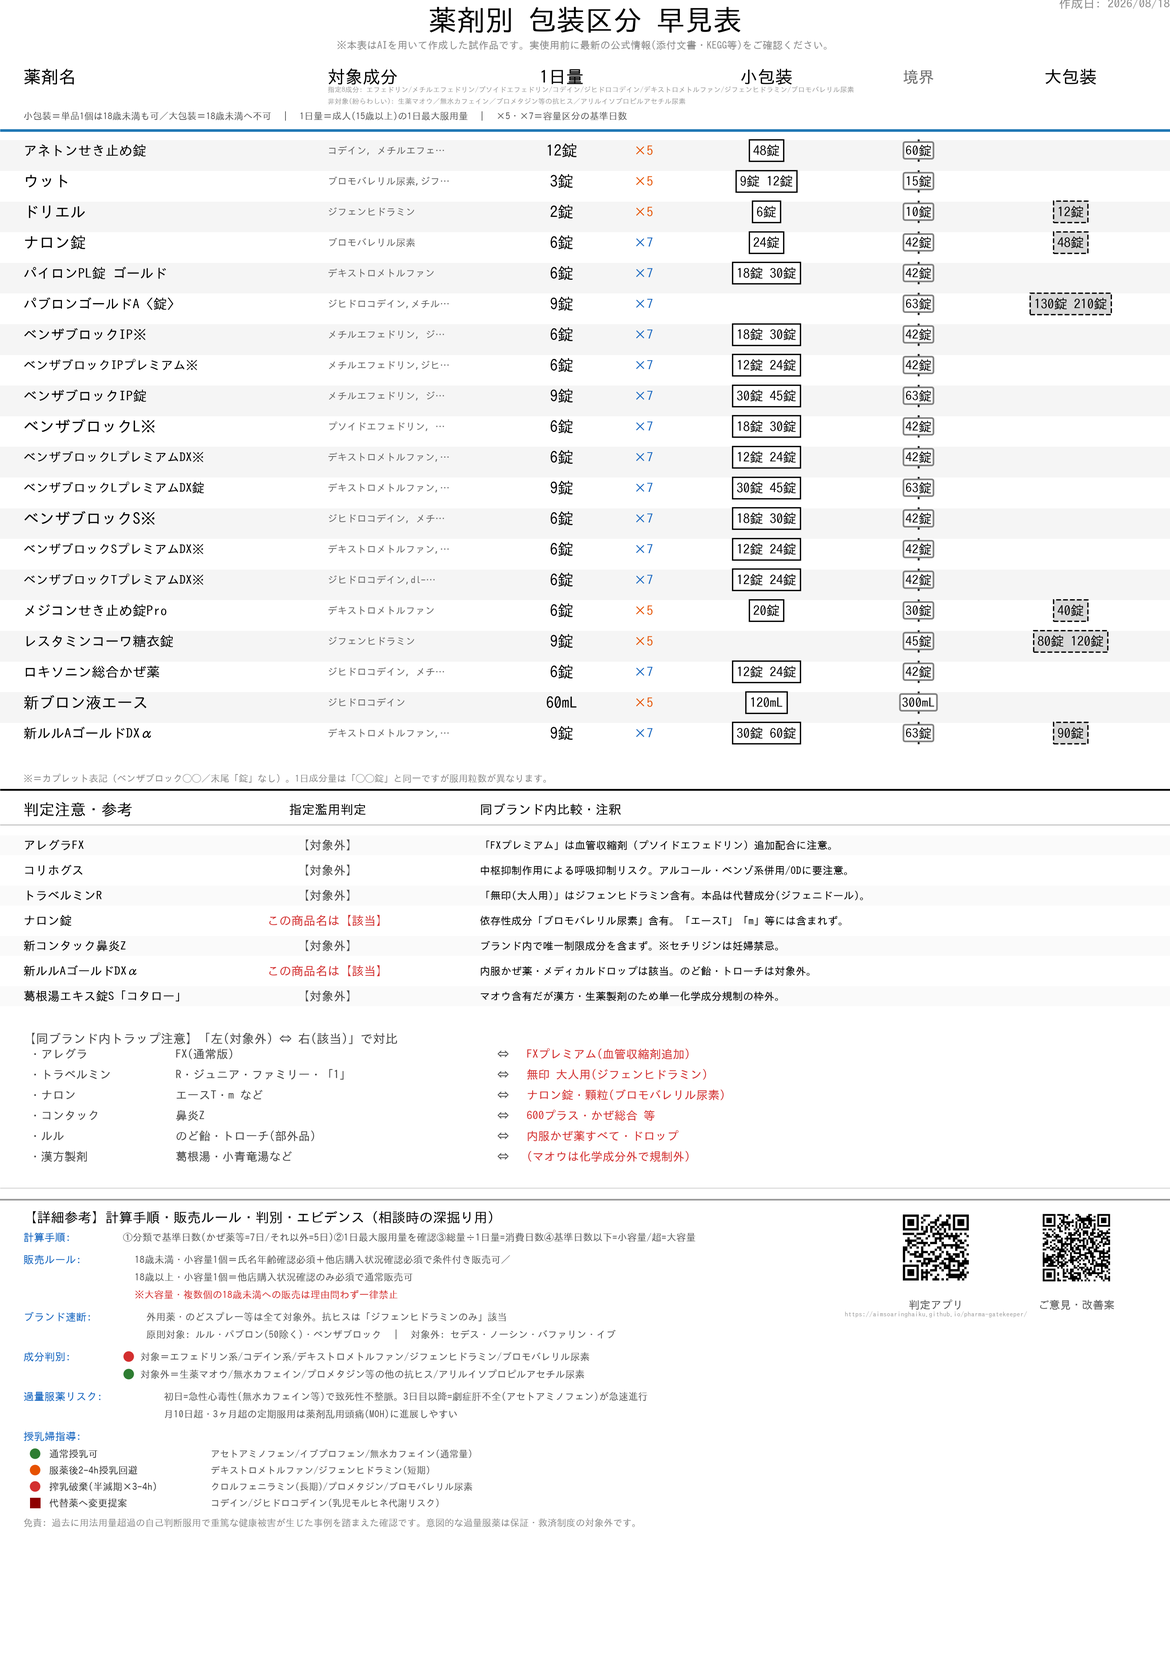
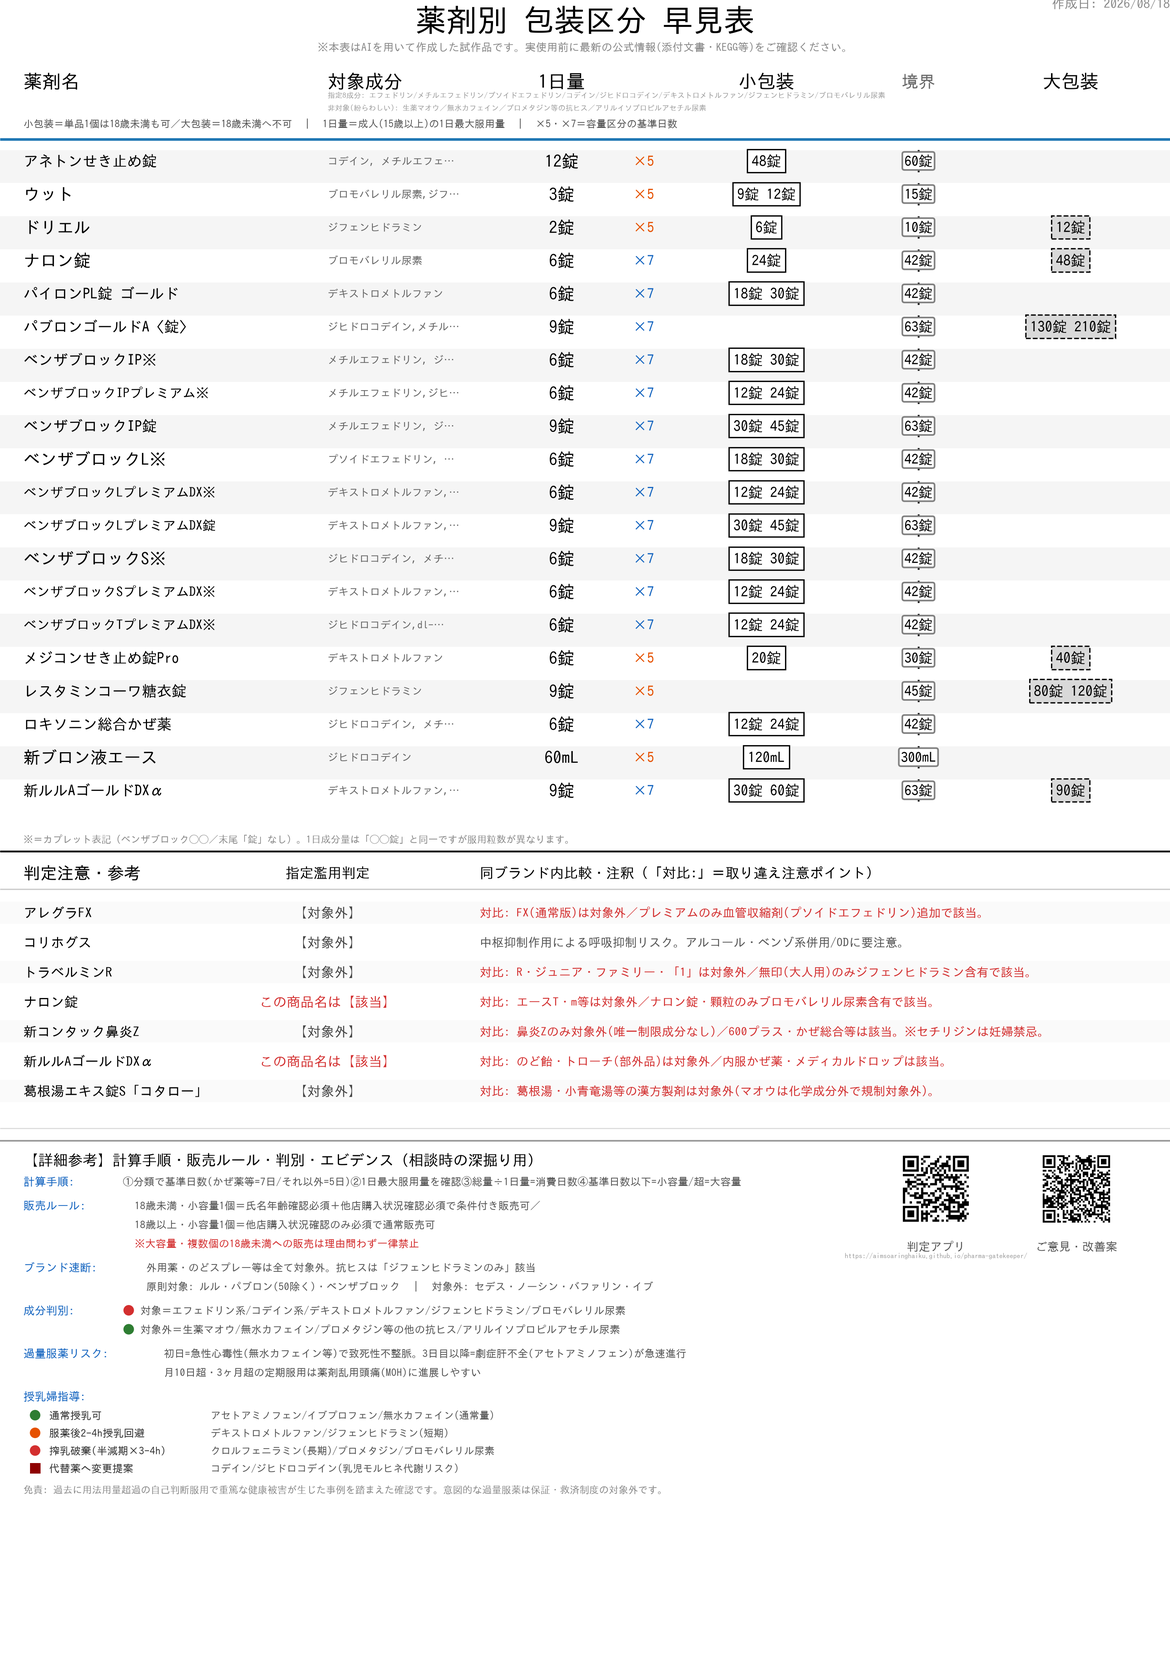
判定注意・参考とトラップ注意を1つの表に統合し、文字サイズを拡大
重複していた同ブランド内トラップ注意セクションを判定注意・参考の
注釈列に統合して行数を削減。浮いたスペースで対象成分列や判定注意
テーブル、本体テーブルの文字サイズ・行間を拡大し可読性を向上。

diff --git a/vpc_v9_single_page.py b/vpc_v9_single_page.py
@@ -101,13 +101,13 @@ mart = pd.DataFrame(processed).sort_values("product").reset_index(drop=True)
 reference_df = df[df["kubun"].isin(["＊〇", "＊対象外", "△"])].copy()
 reference_rows = []
 CUSTOM_NOTES = {
-    "アレグラFX": "「FXプレミアム」は血管収縮剤（プソイドエフェドリン）追加配合に注意。",
+    "アレグラFX": "対比: FX(通常版)は対象外／プレミアムのみ血管収縮剤(プソイドエフェドリン)追加で該当。",
     "コリホグス": "中枢抑制作用による呼吸抑制リスク。アルコール・ベンゾ系併用/ODに要注意。",
-    "トラベルミンR": "「無印(大人用)」はジフェンヒドラミン含有。本品は代替成分(ジフェニドール)。",
-    "ナロン錠": "依存性成分「ブロモバレリル尿素」含有。「エースT」「m」等には含まれず。",
-    "新コンタック鼻炎Z": "ブランド内で唯一制限成分を含まず。※セチリジンは妊婦禁忌。",
-    "新ルルAゴールドDXα": "内服かぜ薬・メディカルドロップは該当。のど飴・トローチは対象外。",
-    "葛根湯エキス錠S「コタロー」": "マオウ含有だが漢方・生薬製剤のため単一化学成分規制の枠外。",
+    "トラベルミンR": "対比: R・ジュニア・ファミリー・「1」は対象外／無印(大人用)のみジフェンヒドラミン含有で該当。",
+    "ナロン錠": "対比: エースT・m等は対象外／ナロン錠・顆粒のみブロモバレリル尿素含有で該当。",
+    "新コンタック鼻炎Z": "対比: 鼻炎Zのみ対象外(唯一制限成分なし)／600プラス・かぜ総合等は該当。※セチリジンは妊婦禁忌。",
+    "新ルルAゴールドDXα": "対比: のど飴・トローチ(部外品)は対象外／内服かぜ薬・メディカルドロップは該当。",
+    "葛根湯エキス錠S「コタロー」": "対比: 葛根湯・小青竜湯等の漢方製剤は対象外(マオウは化学成分外で規制対象外)。",
 }
 for product, group in reference_df.groupby("product", sort=True):
     kubuns = [str(x).strip() for x in group["kubun"] if str(x).strip()]
@@ -151,51 +151,51 @@ COL_LARGE_X = 91.5
 
 # --- タイトル ---
 current_y = LOGICAL_H - 1.7
-ax.text(LOGICAL_W / 2, current_y, "薬剤別 包装区分 早見表", fontsize=17.51, fontweight="bold", ha="center", va="center")
+ax.text(LOGICAL_W / 2, current_y, "薬剤別 包装区分 早見表", fontsize=18.91, fontweight="bold", ha="center", va="center")
 today_str = datetime.date.today().strftime("%Y/%m/%d")
-ax.text(LOGICAL_W, current_y + 1.4, f"作成日: {today_str}", fontsize=7.34, ha="right", va="center", color="#888888")
+ax.text(LOGICAL_W, current_y + 1.4, f"作成日: {today_str}", fontsize=7.93, ha="right", va="center", color="#888888")
 
-current_y -= 2.15
+current_y -= 2.32
 ax.text(LOGICAL_W / 2, current_y,
         "※本表はAIを用いて作成した試作品です。実使用前に最新の公式情報(添付文書・KEGG等)をご確認ください。",
-        fontsize=6.21, ha="center", va="center", color="#888888")
+        fontsize=6.71, ha="center", va="center", color="#888888")
 
 # --- 本体ヘッダー ---
-current_y -= 2.7
-ax.text(COL_NAME_X, current_y, "薬剤名", fontweight="bold", fontsize=10.73, ha="left", va="center")
-ax.text(COL_INGR_X, current_y, "対象成分", fontweight="bold", fontsize=10.73, ha="left", va="center")
-ax.text(COL_DOSE_X, current_y, "1日量", fontweight="bold", fontsize=10.73, ha="center", va="center")
-ax.text(COL_SMALL_X, current_y, "小包装", fontweight="bold", fontsize=10.73, ha="center", va="center")
-ax.text(COL_BOUND_X, current_y, "境界", fontweight="bold", fontsize=9.6, ha="center", va="center", color="#666666")
-ax.text(COL_LARGE_X, current_y, "大包装", fontweight="bold", fontsize=10.73, ha="center", va="center")
+current_y -= 2.92
+ax.text(COL_NAME_X, current_y, "薬剤名", fontweight="bold", fontsize=11.59, ha="left", va="center")
+ax.text(COL_INGR_X, current_y, "対象成分", fontweight="bold", fontsize=11.59, ha="left", va="center")
+ax.text(COL_DOSE_X, current_y, "1日量", fontweight="bold", fontsize=11.59, ha="center", va="center")
+ax.text(COL_SMALL_X, current_y, "小包装", fontweight="bold", fontsize=11.59, ha="center", va="center")
+ax.text(COL_BOUND_X, current_y, "境界", fontweight="bold", fontsize=10.37, ha="center", va="center", color="#666666")
+ax.text(COL_LARGE_X, current_y, "大包装", fontweight="bold", fontsize=11.59, ha="center", va="center")
 
-current_y -= 1.1
+current_y -= 1.19
 ax.text(COL_INGR_X, current_y,
         "指定8成分: エフェドリン/メチルエフェドリン/プソイドエフェドリン/コデイン/ジヒドロコデイン/デキストロメトルファン/ジフェンヒドラミン/ブロモバレリル尿素",
-        fontsize=4.3, ha="left", va="center", color="#999999")
-current_y -= 1.0
+        fontsize=4.64, ha="left", va="center", color="#999999")
+current_y -= 1.08
 ax.text(COL_INGR_X, current_y,
         "非対象(紛らわしい): 生薬マオウ／無水カフェイン／プロメタジン等の抗ヒス／アリルイソプロピルアセチル尿素",
-        fontsize=4.3, ha="left", va="center", color="#999999")
+        fontsize=4.64, ha="left", va="center", color="#999999")
 
-current_y -= 1.25
+current_y -= 1.35
 ax.text(COL_NAME_X, current_y,
         "小包装＝単品1個は18歳未満も可／大包装＝18歳未満へ不可　｜　1日量＝成人(15歳以上)の1日最大服用量　｜　×5・×7＝容量区分の基準日数",
-        fontsize=5.88, ha="left", va="center", color="#555555")
+        fontsize=6.35, ha="left", va="center", color="#555555")
 
-current_y -= 1.25
+current_y -= 1.35
 ax.hlines(current_y, 0, LOGICAL_W, linewidth=1.6)
-current_y -= 1.7
+current_y -= 1.84
 
 main_rows = len(mart)
-row_height = 2.62
+row_height = 2.83
 
 for i, row in mart.iterrows():
     if i % 2 == 0:
-        ax.add_patch(patches.Rectangle((0, current_y - 1.75), LOGICAL_W, row_height, facecolor="#f5f5f5", edgecolor="none", zorder=0))
+        ax.add_patch(patches.Rectangle((0, current_y - 1.9), LOGICAL_W, row_height, facecolor="#f5f5f5", edgecolor="none", zorder=0))
 
     name_len = len(row["product"])
-    name_fontsize = 9.5 if name_len <= 8 else (8.5 if name_len <= 12 else 7.6)
+    name_fontsize = 10.3 if name_len <= 8 else (9.2 if name_len <= 12 else 8.2)
     name_text = row["product"] + ("※" if row["is_caplet"] else "")
     ax.text(COL_NAME_X, current_y, name_text, fontsize=name_fontsize, fontweight="bold", ha="left", va="center")
 
@@ -203,86 +203,62 @@ for i, row in mart.iterrows():
         clean_ingr = re.sub(r'(塩酸塩|リン酸塩|硫酸塩|臭化水素酸塩|マレイン酸塩|酒石酸塩|フマル酸塩)', '', row["ingredients"])
         if len(clean_ingr) > 12:
             clean_ingr = clean_ingr[:12] + "…"
-        ax.text(COL_INGR_X, current_y, clean_ingr, fontsize=6.0, ha="left", va="center", color="#666666")
+        ax.text(COL_INGR_X, current_y, clean_ingr, fontsize=6.48, ha="left", va="center", color="#666666")
     else:
-        ax.text(COL_INGR_X, current_y, "-", fontsize=7.34, ha="left", va="center", color="#aaaaaa")
+        ax.text(COL_INGR_X, current_y, "-", fontsize=7.93, ha="left", va="center", color="#aaaaaa")
 
-    ax.text(COL_DOSE_X, current_y, row["daily"], fontsize=9.6, ha="center", va="center")
+    ax.text(COL_DOSE_X, current_y, row["daily"], fontsize=10.37, ha="center", va="center")
 
     mult_color = "#1565c0" if row["limit"] == 7 else "#e65100"
-    ax.text(COL_MULT_X, current_y, f"×{row['limit']}", fontsize=7.91, ha="center", va="center",
+    ax.text(COL_MULT_X, current_y, f"×{row['limit']}", fontsize=8.54, ha="center", va="center",
             color=mult_color, fontweight="bold")
 
     if row["small"] != "-":
-        ax.text(COL_SMALL_X, current_y, row["small"], fontsize=8.25, ha="center", va="center",
+        ax.text(COL_SMALL_X, current_y, row["small"], fontsize=8.91, ha="center", va="center",
                 bbox=dict(boxstyle="square,pad=0.3", facecolor="white", edgecolor="black", linewidth=0.8))
 
     ax.vlines(COL_BOUND_X, current_y - 0.95, current_y + 0.95, color="black", linewidth=1.1, zorder=1)
-    ax.text(COL_BOUND_X, current_y, row["boundary"], fontsize=7.91, ha="center", va="center",
+    ax.text(COL_BOUND_X, current_y, row["boundary"], fontsize=8.54, ha="center", va="center",
             bbox=dict(boxstyle="round,pad=0.15", facecolor="white", edgecolor="gray"), zorder=2)
 
     if row["large"] != "-":
-        ax.text(COL_LARGE_X, current_y, row["large"], fontsize=8.25, ha="center", va="center",
+        ax.text(COL_LARGE_X, current_y, row["large"], fontsize=8.91, ha="center", va="center",
                 bbox=dict(boxstyle="square,pad=0.3", facecolor="#d9d9d9", edgecolor="black", linestyle="--", linewidth=0.8))
 
     current_y -= row_height
 
-current_y -= 1.25
+current_y -= 1.35
 ax.text(COL_NAME_X, current_y,
         "※＝カプレット表記（ベンザブロック◯◯／末尾「錠」なし）。1日成分量は「◯◯錠」と同一ですが服用粒数が異なります。",
-        fontsize=5.65, ha="left", va="center", color="#888888")
+        fontsize=6.1, ha="left", va="center", color="#888888")
 
 # --- 判定注意・参考（マトリックス） ---
 ref_rows = len(reference) if not reference.empty else 0
 if ref_rows > 0:
-    current_y -= 0.95
+    current_y -= 1.03
     ax.hlines(current_y, 0, LOGICAL_W, colors="black", linewidth=1.1)
-    current_y -= 1.7
+    current_y -= 1.84
 
-    ax.text(COL_NAME_X, current_y, "判定注意・参考", fontsize=9.6, fontweight="bold", ha="left", va="center")
-    ax.text(28.0, current_y, "指定濫用判定", fontsize=7.91, fontweight="bold", ha="center", va="center")
-    ax.text(41.0, current_y, "同ブランド内比較・注釈", fontsize=7.91, fontweight="bold", ha="left", va="center")
+    ax.text(COL_NAME_X, current_y, "判定注意・参考", fontsize=10.37, fontweight="bold", ha="left", va="center")
+    ax.text(28.0, current_y, "指定濫用判定", fontsize=8.54, fontweight="bold", ha="center", va="center")
+    ax.text(41.0, current_y, "同ブランド内比較・注釈（「対比:」＝取り違え注意ポイント）", fontsize=8.54, fontweight="bold", ha="left", va="center")
 
-    current_y -= 1.3
+    current_y -= 1.4
     ax.hlines(current_y, 0, LOGICAL_W, colors="#cccccc", linewidth=0.8)
-    current_y -= 1.75
+    current_y -= 2.0
 
     for j, (_, row) in enumerate(reference.iterrows()):
         if j % 2 == 0:
-            ax.add_patch(patches.Rectangle((0, current_y - 0.85), LOGICAL_W, 1.7, facecolor="#fafafa", edgecolor="none"))
-        ax.text(COL_NAME_X, current_y, row["product"], fontsize=7.34, fontweight="bold", ha="left", va="center")
-        ax.text(28.0, current_y, row["status_text"], fontsize=7.34, fontweight="bold", ha="center", va="center", color=row["status_color"])
-        ax.text(41.0, current_y, row["note"], fontsize=6.55, ha="left", va="center")
-        current_y -= 2.15
+            ax.add_patch(patches.Rectangle((0, current_y - 0.95), LOGICAL_W, 1.9, facecolor="#fafafa", edgecolor="none"))
+        ax.text(COL_NAME_X, current_y, row["product"], fontsize=8.42, fontweight="bold", ha="left", va="center")
+        ax.text(28.0, current_y, row["status_text"], fontsize=8.42, fontweight="bold", ha="center", va="center", color=row["status_color"])
+        note_color = RED if row["note"].startswith("対比") else GRAY
+        ax.text(41.0, current_y, row["note"], fontsize=7.34, ha="left", va="center", color=note_color)
+        current_y -= 2.54
 
-# --- トラップ注意（左右対比・簡略）＋ QR ---
-current_y -= 0.95
-ax.text(COL_NAME_X, current_y, "【同ブランド内トラップ注意】「左(対象外) ⇔ 右(該当)」で対比",
-        fontsize=7.68, ha="left", va="top", color="#444444", fontweight="bold")
-
-trap_list = [
-    ("アレグラ", "FX(通常版)", "FXプレミアム(血管収縮剤追加)"),
-    ("トラベルミン", "R・ジュニア・ファミリー・「1」", "無印 大人用(ジフェンヒドラミン)"),
-    ("ナロン", "エースT・m など", "ナロン錠・顆粒(ブロモバレリル尿素)"),
-    ("コンタック", "鼻炎Z", "600プラス・かぜ総合 等"),
-    ("ルル", "のど飴・トローチ(部外品)", "内服かぜ薬すべて・ドロップ"),
-    ("漢方製剤", "葛根湯・小青竜湯など", "(マオウは化学成分外で規制外)"),
-]
-current_y -= 1.85
-TRAP_BRAND_X, TRAP_LEFT_X, TRAP_ARROW_X, TRAP_RIGHT_X = 2.5, 15.0, 43.0, 45.0
-TRAP_RIGHT_MAXLEN = 22
-for brand, left_text, right_text in trap_list:
-    ax.text(TRAP_BRAND_X, current_y, f"・{brand}", fontsize=7.12, ha="left", va="center", color="#444444")
-    ax.text(TRAP_LEFT_X, current_y, left_text, fontsize=7.12, ha="left", va="center", color="#444444")
-    separator = "⇔" if "該当" in right_text or True else ""
-    ax.text(TRAP_ARROW_X, current_y, "⇔", fontsize=7.12, ha="center", va="center", color="#444444")
-    right_display = right_text if len(right_text) <= TRAP_RIGHT_MAXLEN else right_text[:TRAP_RIGHT_MAXLEN] + "…"
-    ax.text(TRAP_RIGHT_X, current_y, right_display, fontsize=7.12, ha="left", va="center", color=RED)
-    current_y -= 1.75
-
-current_y -= 0.95
+current_y -= 0.65
 ax.hlines(current_y, 0, LOGICAL_W, colors="#dddddd", linewidth=0.7)
-current_y -= 1.0
+current_y -= 1.08
 
 # --- QR（右下） ---
 qr_size = 7.0
@@ -295,9 +271,9 @@ try:
 except Exception:
     ax.add_patch(patches.Rectangle((qr1_x - qr_size/2, qr_y_center - qr_size/2), qr_size, qr_size,
                                    fill=False, edgecolor="#cccccc", zorder=3))
-ax.text(qr1_x, qr_y_center - qr_size/2 - 0.9, "判定アプリ", fontsize=6.78, ha="center", va="top",
+ax.text(qr1_x, qr_y_center - qr_size/2 - 0.9, "判定アプリ", fontsize=7.32, ha="center", va="top",
         color="#555555", fontweight="bold")
-ax.text(qr1_x, qr_y_center - qr_size/2 - 1.9, APP_URL, fontsize=4.07, ha="center", va="top", color="#999999")
+ax.text(qr1_x, qr_y_center - qr_size/2 - 1.9, APP_URL, fontsize=4.4, ha="center", va="top", color="#999999")
 
 qr2_x = 92.0
 try:
@@ -307,7 +283,7 @@ try:
 except Exception:
     ax.add_patch(patches.Rectangle((qr2_x - qr_size/2, qr_y_center - qr_size/2), qr_size, qr_size,
                                    fill=False, edgecolor="#cccccc", zorder=3))
-ax.text(qr2_x, qr_y_center - qr_size/2 - 0.9, "ご意見・改善案", fontsize=6.78, ha="center", va="top",
+ax.text(qr2_x, qr_y_center - qr_size/2 - 0.9, "ご意見・改善案", fontsize=7.32, ha="center", va="top",
         color="#555555", fontweight="bold")
 
 # 右下QR分の高さに揃え、左側スペースに「詳細参考(要約)」を並べて配置
@@ -321,62 +297,62 @@ detail_bottom = right_block_bottom
 DL, DR = 0.0, 74.0  # 左カラム幅（QR列を避ける）
 y = detail_top
 ax.hlines(y, 0, LOGICAL_W, colors="#999999", linewidth=1.0)
-y -= 1.5
+y -= 1.62
 ax.text(COL_NAME_X, y, "【詳細参考】計算手順・販売ルール・判別・エビデンス（相談時の深掘り用）",
-        fontsize=8.47, fontweight="bold", ha="left", va="center")
-y -= 1.7
+        fontsize=9.15, fontweight="bold", ha="left", va="center")
+y -= 1.84
 
 # A. 計算手順（1行に凝縮）
-ax.text(COL_NAME_X, y, "計算手順:", fontsize=6.55, fontweight="bold", ha="left", va="center", color=BLUE)
+ax.text(COL_NAME_X, y, "計算手順:", fontsize=7.07, fontweight="bold", ha="left", va="center", color=BLUE)
 ax.text(COL_NAME_X + 8.5, y,
         "①分類で基準日数(かぜ薬等=7日/それ以外=5日)②1日最大服用量を確認③総量÷1日量=消費日数④基準日数以下=小容量/超=大容量",
-        fontsize=6.1, ha="left", va="center", color=GRAY)
-y -= 1.9
+        fontsize=6.59, ha="left", va="center", color=GRAY)
+y -= 2.05
 
 # B. 販売ルール（ミニ表）
-ax.text(COL_NAME_X, y, "販売ルール:", fontsize=6.55, fontweight="bold", ha="left", va="center", color=BLUE)
+ax.text(COL_NAME_X, y, "販売ルール:", fontsize=7.07, fontweight="bold", ha="left", va="center", color=BLUE)
 ax.text(COL_NAME_X + 9.5, y, "18歳未満・小容量1個＝氏名年齢確認必須＋他店購入状況確認必須で条件付き販売可／",
-        fontsize=6.1, ha="left", va="center", color=GRAY)
-y -= 1.5
+        fontsize=6.59, ha="left", va="center", color=GRAY)
+y -= 1.62
 ax.text(COL_NAME_X + 9.5, y, "18歳以上・小容量1個＝他店購入状況確認のみ必須で通常販売可",
-        fontsize=6.1, ha="left", va="center", color=GRAY)
-y -= 1.5
+        fontsize=6.59, ha="left", va="center", color=GRAY)
+y -= 1.62
 ax.text(COL_NAME_X + 9.5, y, "※大容量・複数個の18歳未満への販売は理由問わず一律禁止",
-        fontsize=6.1, ha="left", va="center", color=RED, fontweight="bold")
-y -= 1.9
+        fontsize=6.59, ha="left", va="center", color=RED, fontweight="bold")
+y -= 2.05
 
 # C. 瞬時の判別（ブランド速断）
-ax.text(COL_NAME_X, y, "ブランド速断:", fontsize=6.55, fontweight="bold", ha="left", va="center", color=BLUE)
+ax.text(COL_NAME_X, y, "ブランド速断:", fontsize=7.07, fontweight="bold", ha="left", va="center", color=BLUE)
 ax.text(COL_NAME_X + 10.5, y, "外用薬・のどスプレー等は全て対象外。抗ヒスは「ジフェンヒドラミンのみ」該当",
-        fontsize=6.1, ha="left", va="center", color=GRAY)
-y -= 1.5
+        fontsize=6.59, ha="left", va="center", color=GRAY)
+y -= 1.62
 ax.text(COL_NAME_X + 10.5, y, "原則対象: ルル・パブロン(50除く)・ベンザブロック　｜　対象外: セデス・ノーシン・バファリン・イブ",
-        fontsize=6.1, ha="left", va="center", color=GRAY)
-y -= 1.9
+        fontsize=6.59, ha="left", va="center", color=GRAY)
+y -= 2.05
 
 # D. 成分判別
-ax.text(COL_NAME_X, y, "成分判別:", fontsize=6.55, fontweight="bold", ha="left", va="center", color=BLUE)
+ax.text(COL_NAME_X, y, "成分判別:", fontsize=7.07, fontweight="bold", ha="left", va="center", color=BLUE)
 marker(ax, COL_NAME_X + 9.0, y, RED, "circle", 0.45)
 ax.text(COL_NAME_X + 10.0, y, "対象＝エフェドリン系/コデイン系/デキストロメトルファン/ジフェンヒドラミン/ブロモバレリル尿素",
-        fontsize=6.1, ha="left", va="center", color=GRAY)
-y -= 1.5
+        fontsize=6.59, ha="left", va="center", color=GRAY)
+y -= 1.62
 marker(ax, COL_NAME_X + 9.0, y, GREEN, "circle", 0.45)
 ax.text(COL_NAME_X + 10.0, y, "対象外＝生薬マオウ/無水カフェイン/プロメタジン等の他の抗ヒス/アリルイソプロピルアセチル尿素",
-        fontsize=6.1, ha="left", va="center", color=GRAY)
-y -= 1.9
+        fontsize=6.59, ha="left", va="center", color=GRAY)
+y -= 2.05
 
 # E. 医療エビデンス（1行要約×3）
-ax.text(COL_NAME_X, y, "過量服薬リスク:", fontsize=6.55, fontweight="bold", ha="left", va="center", color=BLUE)
+ax.text(COL_NAME_X, y, "過量服薬リスク:", fontsize=7.07, fontweight="bold", ha="left", va="center", color=BLUE)
 ax.text(COL_NAME_X + 12.0, y, "初日=急性心毒性(無水カフェイン等)で致死性不整脈。3日目以降=劇症肝不全(アセトアミノフェン)が急速進行",
-        fontsize=6.1, ha="left", va="center", color=GRAY)
-y -= 1.5
+        fontsize=6.59, ha="left", va="center", color=GRAY)
+y -= 1.62
 ax.text(COL_NAME_X + 12.0, y, "月10日超・3ヶ月超の定期服用は薬剤乱用頭痛(MOH)に進展しやすい",
-        fontsize=6.1, ha="left", va="center", color=GRAY)
-y -= 1.9
+        fontsize=6.59, ha="left", va="center", color=GRAY)
+y -= 2.05
 
 # F. 授乳婦指導（色マーカー4段）
-ax.text(COL_NAME_X, y, "授乳婦指導:", fontsize=6.55, fontweight="bold", ha="left", va="center", color=BLUE)
-y -= 1.5
+ax.text(COL_NAME_X, y, "授乳婦指導:", fontsize=7.07, fontweight="bold", ha="left", va="center", color=BLUE)
+y -= 1.62
 nursing_rows = [
     (GREEN, "circle", "通常授乳可", "アセトアミノフェン/イブプロフェン/無水カフェイン(通常量)"),
     (ORANGE, "circle", "服薬後2-4h授乳回避", "デキストロメトルファン/ジフェンヒドラミン(短期)"),
@@ -385,14 +361,14 @@ nursing_rows = [
 ]
 for color, shape, tag, ingr in nursing_rows:
     marker(ax, COL_NAME_X + 1.0, y, color, shape, 0.45)
-    ax.text(COL_NAME_X + 2.2, y, tag, fontsize=6.1, fontweight="bold", ha="left", va="center", color="#333333")
-    ax.text(COL_NAME_X + 16.0, y, ingr, fontsize=5.88, ha="left", va="center", color=GRAY)
-    y -= 1.4
+    ax.text(COL_NAME_X + 2.2, y, tag, fontsize=6.59, fontweight="bold", ha="left", va="center", color="#333333")
+    ax.text(COL_NAME_X + 16.0, y, ingr, fontsize=6.35, ha="left", va="center", color=GRAY)
+    y -= 1.51
 
-y -= 0.3
+y -= 0.32
 ax.text(COL_NAME_X, y,
         "免責: 過去に用法用量超過の自己判断服用で重篤な健康被害が生じた事例を踏まえた確認です。意図的な過量服薬は保証・救済制度の対象外です。",
-        fontsize=5.65, ha="left", va="center", color=LGRAY)
+        fontsize=6.1, ha="left", va="center", color=LGRAY)
 
 plt.savefig(OUTPUT_PNG, dpi=300)
 plt.close()
